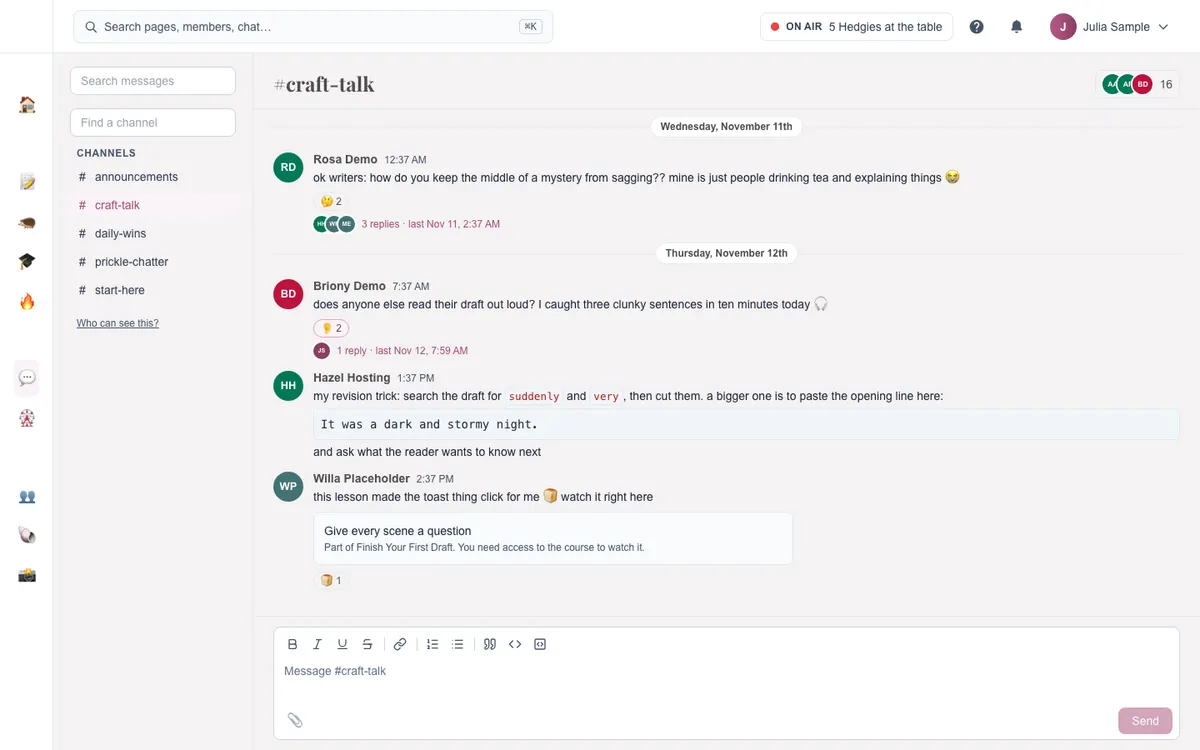
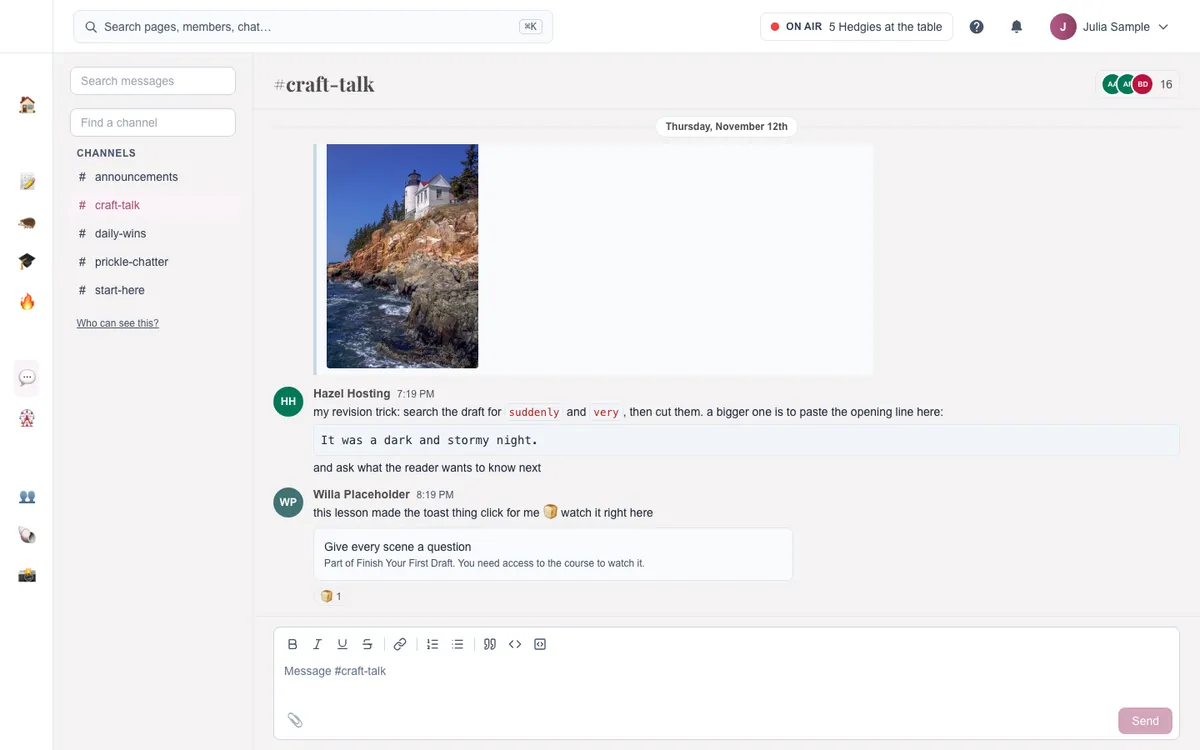
Lesson share links: Copy with thumbnail, members' timestamp, fresh screenshots (#1276)
* Rename Copy for email to Copy with thumbnail; refresh lesson-videos-in-chat screenshots

* Members' Copy link includes the player position once past the start

* Copy link: say where to paste it after copying, not beside the button

---------

diff --git a/tests/components/VideoActions.test.tsx b/tests/components/VideoActions.test.tsx
@@ -56,12 +56,12 @@ describe("VideoActions", () => {
     expect(screen.getByRole("menuitem", { name: "Download video" })).toHaveAttribute("title", expect.stringMatching(/MP4.*Mux/));
   });
 
-  describe("Copy for email", () => {
+  describe("Copy with thumbnail", () => {
     const link = { url: URL, imageUrl: "https://hub.example/api/courses/image/lesson/les_AAAAAAAAAAA1", title: 'Reader "Expectations" & <more>' };
 
     it("is disabled with the reason on hover while the lesson has no public link", async () => {
       await open(<VideoActions statsHref={STATS} lessonUrl={URL} thumbnailLink={null} thumbnailLinkBlocked="Only a lesson that is open to members has a public link" />);
-      const item = screen.getByRole("menuitem", { name: "Copy for email" });
+      const item = screen.getByRole("menuitem", { name: "Copy with thumbnail" });
       expect(item).toBeDisabled();
       expect(item).toHaveAttribute("title", "Only a lesson that is open to members has a public link");
     });
@@ -79,7 +79,7 @@ describe("VideoActions", () => {
       render(<VideoActions statsHref={STATS} lessonUrl={URL} thumbnailLink={link} thumbnailLinkBlocked="" />);
       Object.defineProperty(navigator, "clipboard", { value: { writeText, write }, configurable: true });
       await user.click(screen.getByRole("button", { name: /Video actions/ }));
-      await user.click(screen.getByRole("menuitem", { name: "Copy for email" }));
+      await user.click(screen.getByRole("menuitem", { name: "Copy with thumbnail" }));
 
       expect(written[0]).toEqual([
         { type: "text/html", text: `<a href="${URL}"><img src="${link.imageUrl}" alt="Reader &quot;Expectations&quot; &amp; &lt;more&gt;" width="480"></a>` },
@@ -92,7 +92,7 @@ describe("VideoActions", () => {
     it("copies just the address where the browser can't copy rich text", async () => {
       vi.stubGlobal("ClipboardItem", undefined);
       const user = await open(<VideoActions statsHref={STATS} lessonUrl={URL} thumbnailLink={link} thumbnailLinkBlocked="" />);
-      await user.click(screen.getByRole("menuitem", { name: "Copy for email" }));
+      await user.click(screen.getByRole("menuitem", { name: "Copy with thumbnail" }));
       expect(writeText).toHaveBeenCalledWith(URL);
       vi.unstubAllGlobals();
     });
@@ -101,7 +101,7 @@ describe("VideoActions", () => {
       vi.stubGlobal("ClipboardItem", undefined);
       writeText.mockRejectedValue(new Error("denied"));
       const user = await open(<VideoActions statsHref={STATS} lessonUrl={URL} thumbnailLink={link} thumbnailLinkBlocked="" />);
-      await user.click(screen.getByRole("menuitem", { name: "Copy for email" }));
+      await user.click(screen.getByRole("menuitem", { name: "Copy with thumbnail" }));
       expect(screen.getByRole("status")).toHaveTextContent("Couldn't copy the link.");
       vi.unstubAllGlobals();
     });

diff --git a/tests/components/CopyLessonLink.test.tsx b/tests/components/CopyLessonLink.test.tsx
@@ -3,6 +3,11 @@ import { afterEach, describe, expect, it, vi } from "vitest";
 import { cleanup, render, screen } from "@testing-library/react";
 import userEvent from "@testing-library/user-event";
 import CopyLessonLink from "@/app/(member)/courses/CopyLessonLink";
+import { PlayerTimeProvider, TimedLessonPlayer } from "@/components/courses/PlayerTime";
+
+vi.mock("@/components/courses/LessonPlayer", () => ({
+  default: ({ onTime }: { onTime?: (seconds: number) => void }) => <button onClick={() => onTime?.(95)}>Move to 1:35</button>,
+}));
 
 const ADDRESS = "https://hub.example.com/courses/c/lessons/les_AAAAAAAAAAA1";
 
@@ -13,12 +18,12 @@ describe("CopyLessonLink", () => {
     const writeText = vi.fn().mockResolvedValue(undefined);
     Object.defineProperty(navigator, "clipboard", { value: { writeText }, configurable: true });
     render(<CopyLessonLink url={ADDRESS} />);
-    expect(screen.getByText(/paste it into hub chat/i)).toBeInTheDocument();
+    expect(screen.queryByText(/paste it into hub chat/i)).not.toBeInTheDocument();
 
     await userEvent.click(screen.getByRole("button", { name: "Copy link" }));
 
     expect(writeText).toHaveBeenCalledWith(ADDRESS);
-    expect(screen.getByRole("status")).toHaveTextContent("Copied.");
+    expect(screen.getByRole("status")).toHaveTextContent("Copied. Paste it into Hub Chat");
   });
 
   it("says so when the browser refuses", async () => {
@@ -28,5 +33,23 @@ describe("CopyLessonLink", () => {
     await userEvent.click(screen.getByRole("button", { name: "Copy link" }));
 
     expect(screen.getByRole("status")).toHaveTextContent("Couldn't copy");
+  });
+
+  it("copies the address at the player's position once it is past the start", async () => {
+    const writeText = vi.fn().mockResolvedValue(undefined);
+    Object.defineProperty(navigator, "clipboard", { value: { writeText }, configurable: true });
+    render(
+      <PlayerTimeProvider>
+        <TimedLessonPlayer {...({} as React.ComponentProps<typeof TimedLessonPlayer>)} />
+        <CopyLessonLink url={ADDRESS} />
+      </PlayerTimeProvider>,
+    );
+
+    await userEvent.click(screen.getByRole("button", { name: "Copy link" }));
+    expect(writeText).toHaveBeenLastCalledWith(ADDRESS);
+
+    await userEvent.click(screen.getByRole("button", { name: "Move to 1:35" }));
+    await userEvent.click(screen.getByRole("button", { name: "Copy link" }));
+    expect(writeText).toHaveBeenLastCalledWith(`${ADDRESS}?t=95`);
   });
 });

diff --git a/tests/components/pages/admin-lesson-builder.test.tsx b/tests/components/pages/admin-lesson-builder.test.tsx
@@ -266,12 +266,12 @@ describe("/admin/courses/[id]/lessons/[lessonId]", () => {
     });
   });
 
-  it("enables Copy for email for a public lesson, and says why not when it isn't (not open, no thumbnail, course not open, not in the Hub)", async () => {
+  it("enables Copy with thumbnail for a public lesson, and says why not when it isn't (not open, no thumbnail, course not open, not in the Hub)", async () => {
     const user = userEvent.setup();
     loadAdminLesson.mockResolvedValue(detail());
     const { unmount } = await renderServerPage(AdminLessonPage, params);
     await user.click(screen.getByRole("button", { name: /Video actions/ }));
-    expect(screen.getByRole("menuitem", { name: "Copy for email" })).toBeEnabled();
+    expect(screen.getByRole("menuitem", { name: "Copy with thumbnail" })).toBeEnabled();
     expect(publicLessonPreview).toHaveBeenCalledWith(expect.anything(), "les_AAAAAAAAAAA1");
     unmount();
 
@@ -285,7 +285,7 @@ describe("/admin/courses/[id]/lessons/[lessonId]", () => {
       loadAdminLesson.mockResolvedValue(detail());
       const view = await renderServerPage(AdminLessonPage, params);
       await user.click(screen.getByRole("button", { name: /Video actions/ }));
-      const item = screen.getByRole("menuitem", { name: "Copy for email" });
+      const item = screen.getByRole("menuitem", { name: "Copy with thumbnail" });
       expect(item).toBeDisabled();
       expect(item).toHaveAttribute("title", expect.stringMatching(reason));
       view.unmount();
@@ -294,7 +294,7 @@ describe("/admin/courses/[id]/lessons/[lessonId]", () => {
     loadAdminLesson.mockResolvedValue(detail({ hub: null, video: null }));
     await renderServerPage(AdminLessonPage, params);
     await user.click(screen.getByRole("button", { name: /Video actions/ }));
-    expect(screen.getByRole("menuitem", { name: "Copy for email" })).toHaveAttribute("title", "This lesson isn't in the Hub yet");
+    expect(screen.getByRole("menuitem", { name: "Copy with thumbnail" })).toHaveAttribute("title", "This lesson isn't in the Hub yet");
     expect(publicLessonPreview).toHaveBeenCalledTimes(4);
   });
 

diff --git a/app/(member)/courses/CopyLessonLink.tsx b/app/(member)/courses/CopyLessonLink.tsx
@@ -1,14 +1,16 @@
 "use client";
 
 import { useState } from "react";
+import { usePlayerSeconds } from "@/components/courses/PlayerTime";
 
-/** "Copy link" under a lesson's video: the lesson's address, which becomes the video card when pasted into a Hub Chat message. */
+/** "Copy link" under a lesson's video: the lesson's address (at the player's position when it is past the start), which becomes the video card when pasted into a Hub Chat message. */
 export default function CopyLessonLink({ url }: { url: string }) {
   const [status, setStatus] = useState<"copied" | "failed" | null>(null);
+  const seconds = usePlayerSeconds();
 
   async function copy() {
     try {
-      await navigator.clipboard.writeText(url);
+      await navigator.clipboard.writeText(seconds > 0 ? `${url}?t=${seconds}` : url);
       setStatus("copied");
     } catch {
       setStatus("failed");
@@ -17,13 +19,12 @@ export default function CopyLessonLink({ url }: { url: string }) {
 
   return (
     <div className="mt-3 flex flex-wrap items-center gap-x-3 gap-y-1">
-      <button type="button" onClick={copy} data-track="lesson-copy-link" className="text-sm font-medium text-plum-600 hover:underline dark:text-plum-400">
+      <button type="button" onClick={copy} data-track="lesson-copy-link" title="Copy the lesson link. Paste it into Hub Chat to share the video there." className="text-sm font-medium text-plum-600 hover:underline dark:text-plum-400">
         Copy link
       </button>
-      <span className="text-sm text-slate-600 dark:text-slate-400">Paste it into Hub Chat to share the video there.</span>
       {status && (
         <span role="status" className="text-sm text-slate-700 dark:text-slate-300">
-          {status === "copied" ? "Copied." : "Couldn't copy. The address in your browser's address bar works the same way."}
+          {status === "copied" ? "Copied. Paste it into Hub Chat to share the video." : "Couldn't copy. The address in your browser's address bar works the same way."}
         </span>
       )}
     </div>

diff --git a/app/(member)/courses/[slug]/lessons/[lessonId]/page.tsx b/app/(member)/courses/[slug]/lessons/[lessonId]/page.tsx
@@ -19,9 +19,10 @@ import { isId } from "@/lib/ids";
 import PageBanner from "@/components/PageBanner";
 import LessonSectionList from "../../../LessonSectionList";
 import LessonDownloads from "../../../LessonDownloads";
-import LessonPlayer, { type PlaybackTokens } from "@/components/courses/LessonPlayer";
+import { type PlaybackTokens } from "@/components/courses/LessonPlayer";
 import LessonViewed from "@/components/courses/LessonViewed";
 import { LessonCompletionProvider } from "@/components/courses/LessonCompletion";
+import { PlayerTimeProvider, TimedLessonPlayer } from "@/components/courses/PlayerTime";
 import MarkCompleteButton from "../../../MarkCompleteButton";
 import NextLessonPreview from "../../../NextLessonPreview";
 import { createRepos } from "@/lib/data/repos";
@@ -131,7 +132,7 @@ export default async function LessonPage({
     const muxData = tokens ? await muxDataConsentFor(caller.userId, caller.identity) : null;
     player =
       tokens && video.playbackId ? (
-        <LessonPlayer
+        <TimedLessonPlayer
           // A new player per lesson, so the watch tracker flushes the old lesson and starts clean on the next one.
           key={lesson.id}
           title={lesson.title}
@@ -218,6 +219,7 @@ export default async function LessonPage({
 
         {/* Completion is shared by the player (which sets it at ~90% watched), the button and the next-lesson card. */}
         <LessonCompletionProvider lessonId={lesson.id} initiallyCompleted={completed} readOnlyReason={readOnlyReason}>
+        <PlayerTimeProvider>
         <div className="mt-4 grid grid-cols-[minmax(0,1fr)] @outline:grid-cols-[minmax(0,1fr)_22rem]">
           {/* The video and this section's lessons are one component: a dark panel flush against the player, the same height. */}
           {player && (
@@ -288,6 +290,7 @@ export default async function LessonPage({
             </div>
           )}
         </div>
+        </PlayerTimeProvider>
         </LessonCompletionProvider>
       </div>
     </>

diff --git a/tests/components/pages/courses-pages.test.tsx b/tests/components/pages/courses-pages.test.tsx
@@ -44,7 +44,7 @@ vi.mock("@/lib/features.server", () => ({
 vi.mock("@/lib/supabase/server", () => ({ createClient: async () => ({}) }));
 vi.mock("@/app/(member)/courses/actions", () => ({ setLessonComplete: vi.fn(async () => ({})), clearMyLessonProgress: vi.fn(async () => ({})) }));
 
-import LessonPlayerMock from "@/components/courses/LessonPlayer";
+import { TimedLessonPlayer } from "@/components/courses/PlayerTime";
 import CoursesPage from "@/app/(member)/courses/page";
 import CoursePage, { generateMetadata as generateCourseMetadata } from "@/app/(member)/courses/[slug]/page";
 import ModulePage, { generateMetadata as generateModuleMetadata } from "@/app/(member)/courses/[slug]/modules/[moduleId]/page";
@@ -792,7 +792,7 @@ describe("/courses/[slug]/lessons/[lessonId]", () => {
           if (Array.isArray(node)) return node.map(find).find((k) => k !== undefined);
           if (!node || typeof node !== "object" || !("props" in node)) return undefined;
           const el = node as { type: unknown; key: string | null; props: { children?: unknown } };
-          return el.type === LessonPlayerMock ? el.key : find(el.props.children);
+          return el.type === TimedLessonPlayer ? el.key : find(el.props.children);
         };
         return find(await LessonPage(params(lessonId)));
       };

diff --git a/components/courses/PlayerTime.tsx b/components/courses/PlayerTime.tsx
@@ -1,0 +1,23 @@
+"use client";
+
+import { createContext, useContext, useState, type ComponentProps, type ReactNode } from "react";
+import LessonPlayer from "@/components/courses/LessonPlayer";
+
+const PlayerTimeContext = createContext<{ seconds: number; setSeconds: (seconds: number) => void }>({ seconds: 0, setSeconds: () => {} });
+
+/** Where the lesson's player is, shared with controls elsewhere on the page ("Copy link" at this moment). */
+export function PlayerTimeProvider({ children }: { children: ReactNode }) {
+  const [seconds, setSeconds] = useState(0);
+  return <PlayerTimeContext.Provider value={{ seconds, setSeconds }}>{children}</PlayerTimeContext.Provider>;
+}
+
+/** Whole seconds into the video; 0 outside a provider. */
+export function usePlayerSeconds(): number {
+  return useContext(PlayerTimeContext).seconds;
+}
+
+/** The lesson player, reporting its position to the provider above it. */
+export function TimedLessonPlayer(props: ComponentProps<typeof LessonPlayer>) {
+  const { setSeconds } = useContext(PlayerTimeContext);
+  return <LessonPlayer {...props} onTime={setSeconds} />;
+}

diff --git a/app/(admin)/admin/courses/[id]/lessons/[lessonId]/VideoActions.tsx b/app/(admin)/admin/courses/[id]/lessons/[lessonId]/VideoActions.tsx
@@ -142,7 +142,7 @@ export default function VideoActions({
             title={thumbnailLink ? undefined : thumbnailLinkBlocked}
             className={thumbnailLink ? `${ITEM} hover:bg-slate-50 dark:hover:bg-slate-800` : OFF}
           >
-            Copy for email
+            Copy with thumbnail
           </button>
           {chatShare && (
               <button
